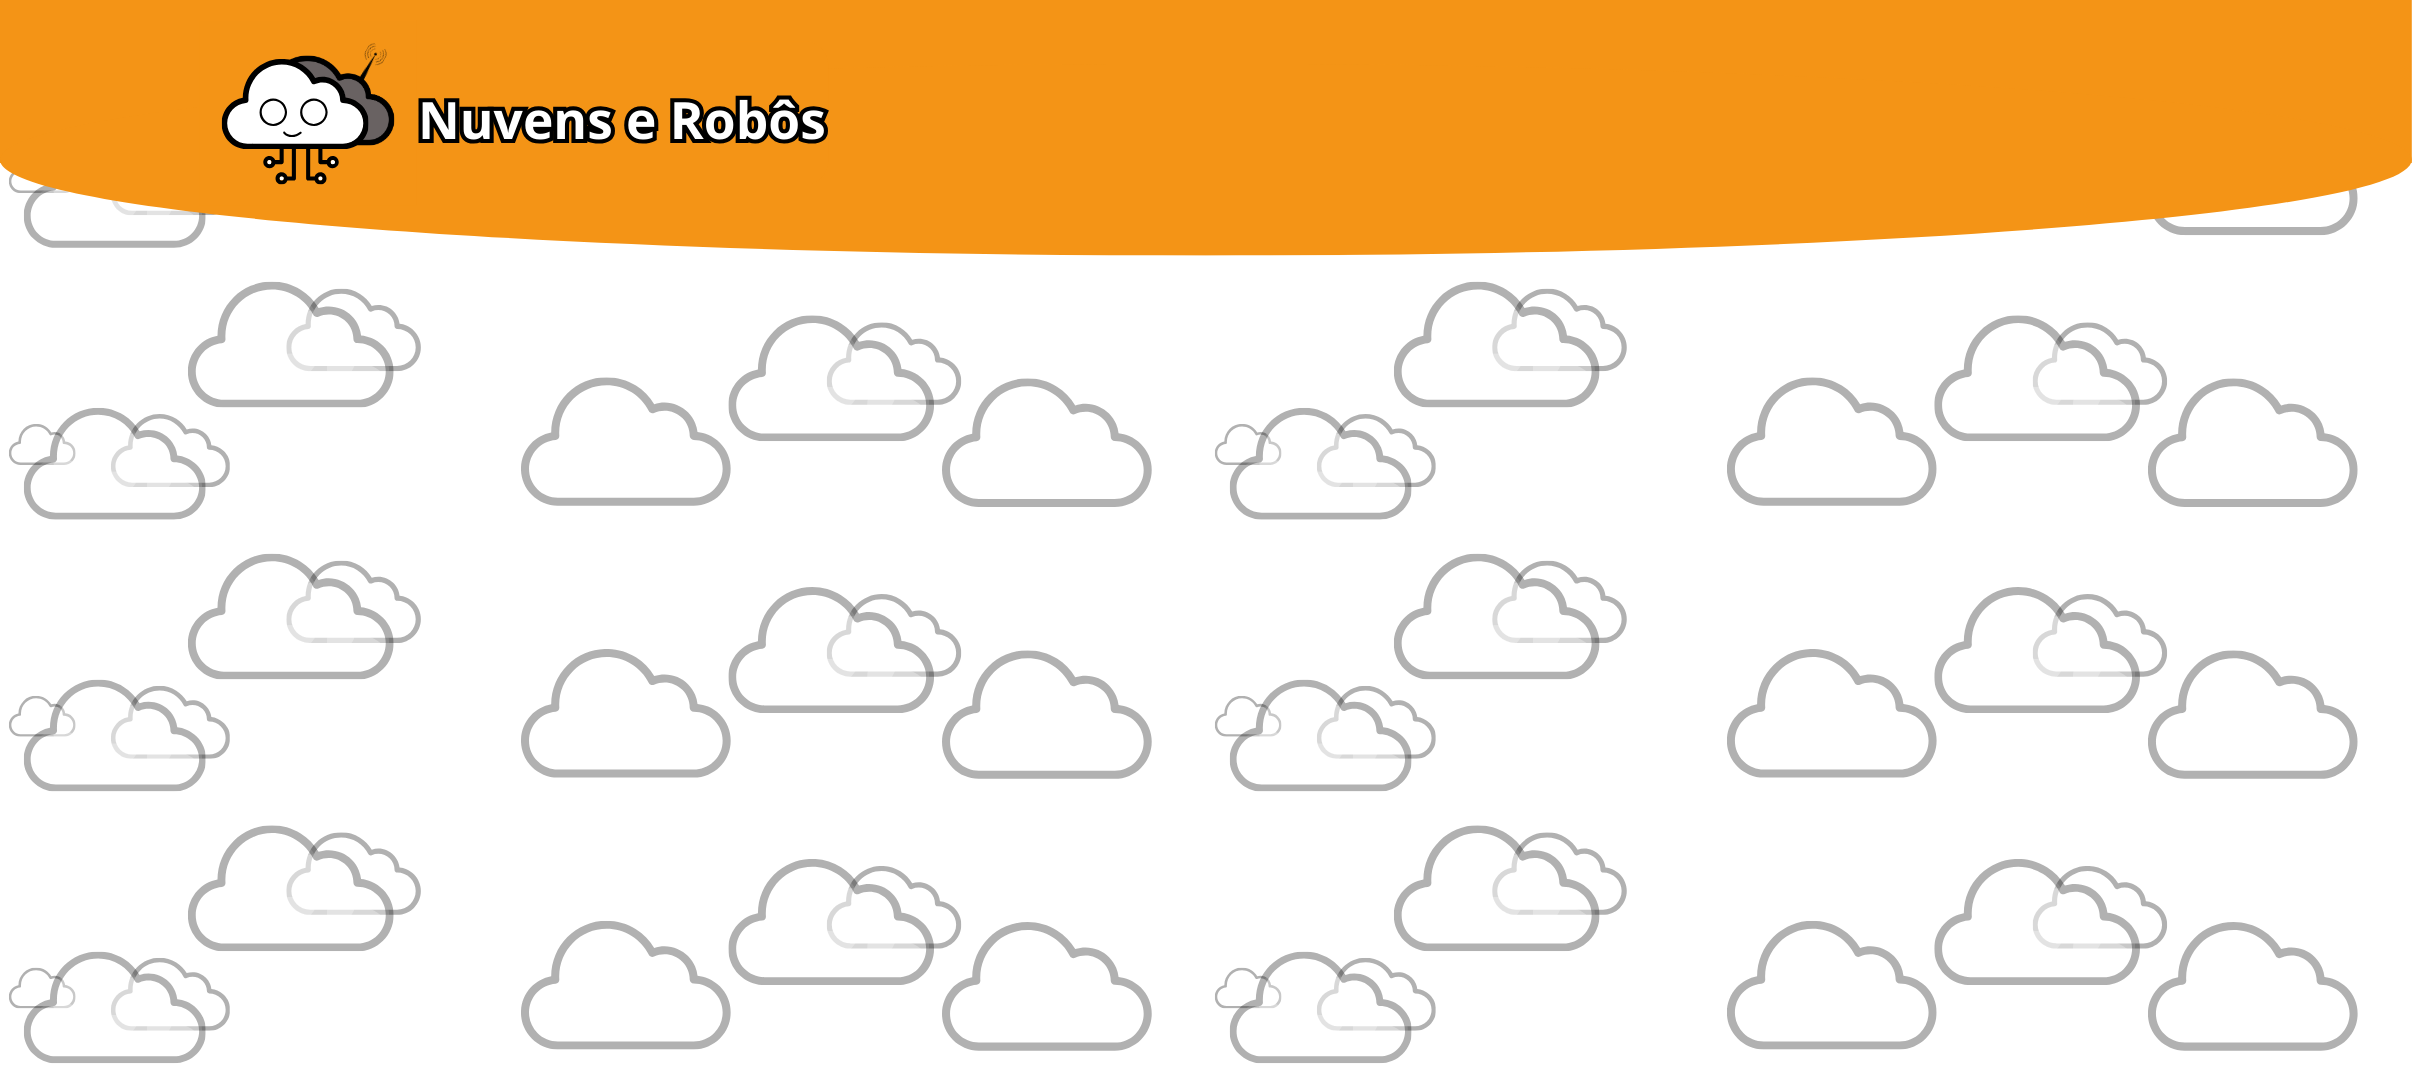
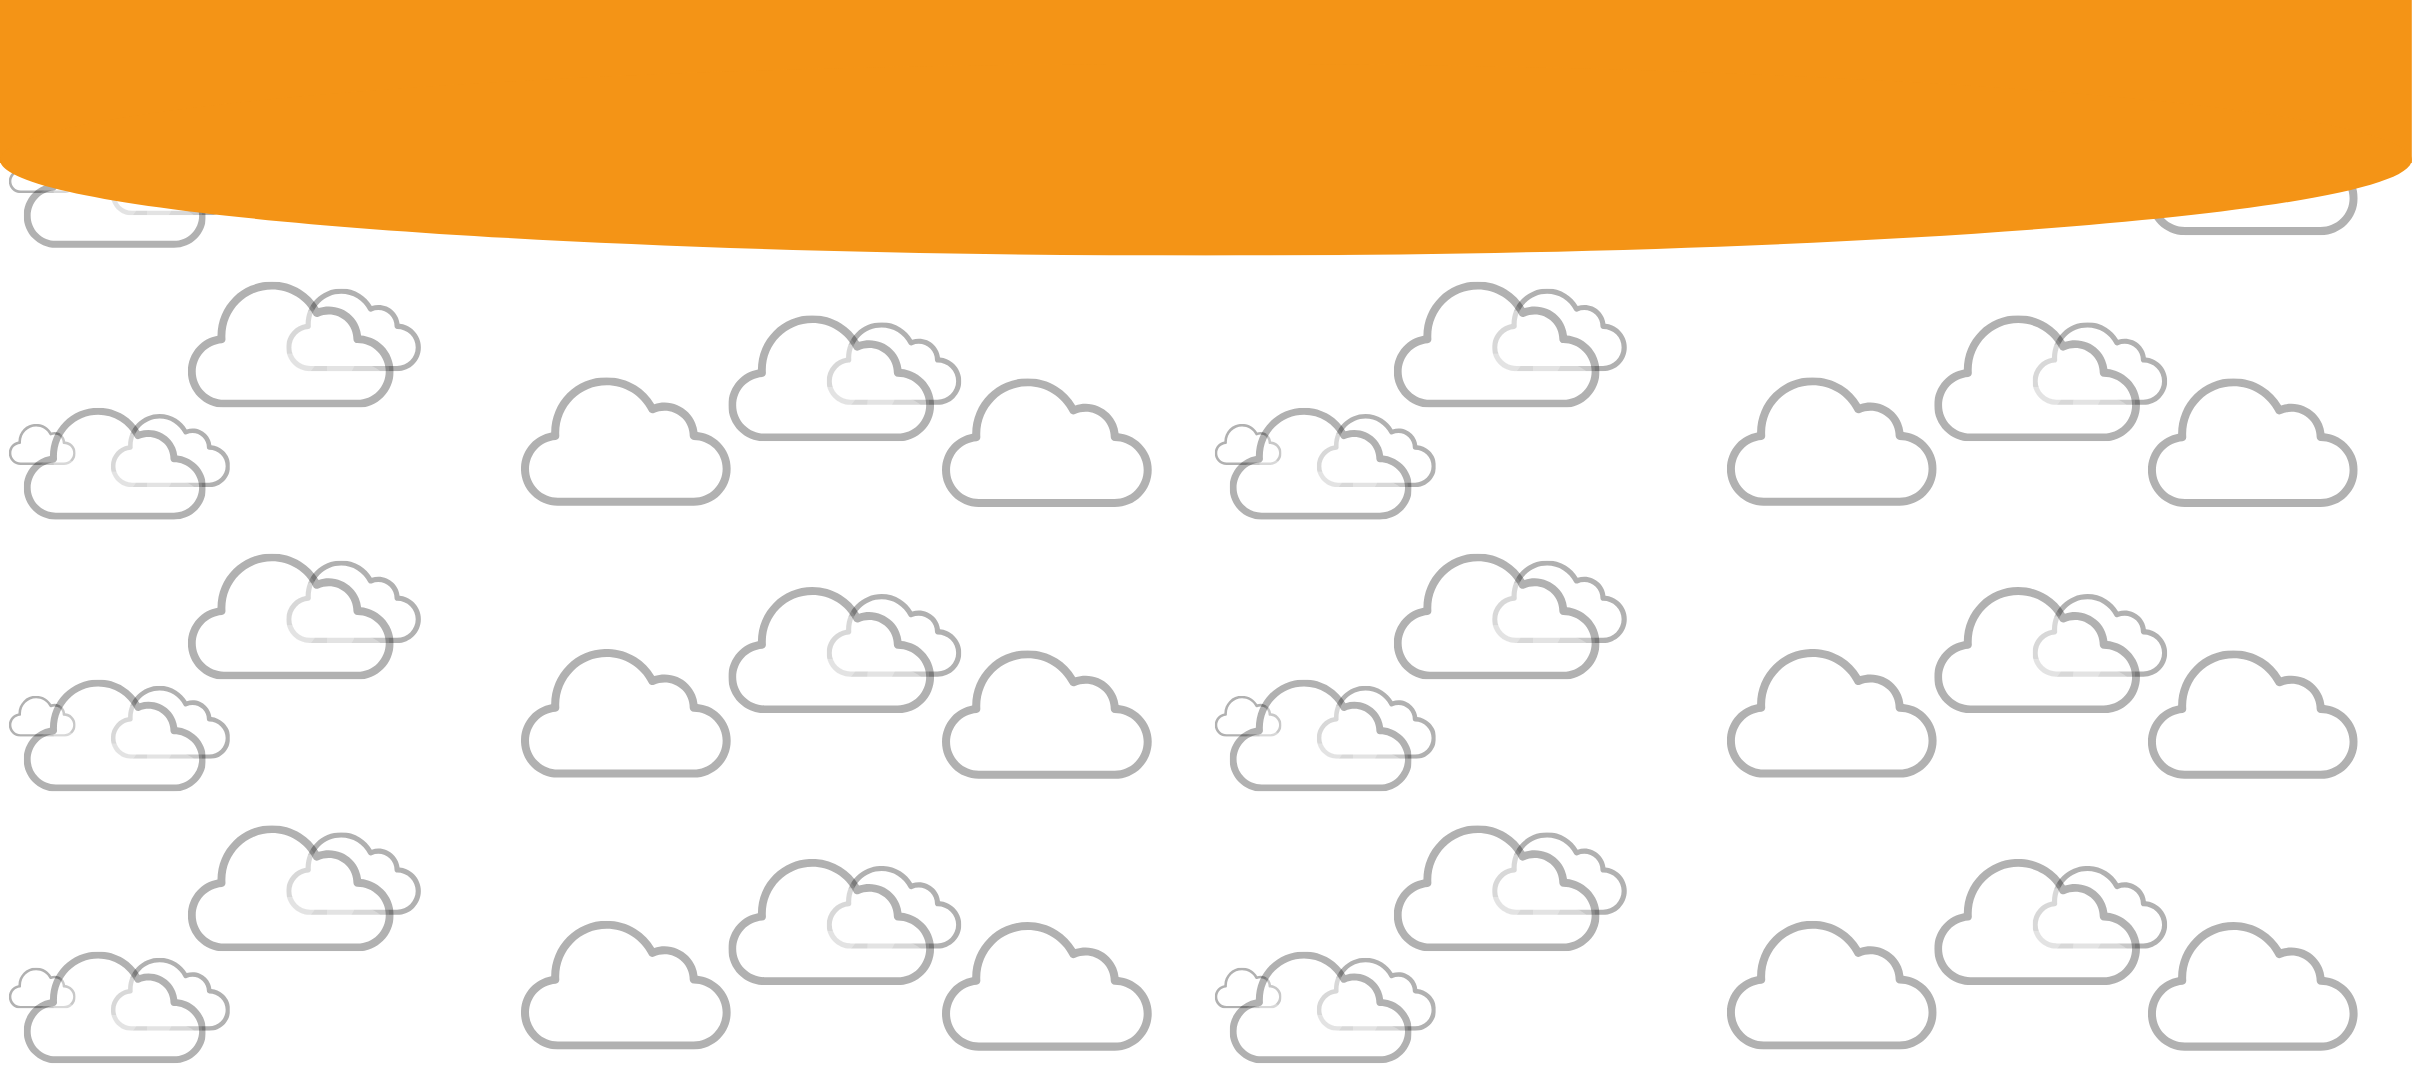
feat: add mobile version

Changed region(s): [[0.0933, 0.0312, 0.342, 0.1562]]

diff --git a/static/css/style.css b/static/css/style.css
@@ -18,12 +18,15 @@ body {
 /* Header */
 header {
     padding: 20px 20px;
+    position: relative; /* Adicionado para posicionar a logo */
+    width: 100%; /* Ocupa toda a largura da tela */
 }
 
 .navbar {
     background-color: transparent !important;
     border-radius: 15px;
     padding: 20px 25px;
+    width: 100%; /* Ocupa toda a largura da tela */
 }
 
 .navbar-nav .nav-link {
@@ -33,6 +36,29 @@ header {
 .nav-img {
     height: 60px;
     transition: transform 0.1s ease;
+}
+
+/* Logo e Título na lateral esquerda do header */
+.header-logo {
+    height: 85px; /* Aumentei mais um pouco (de 75px para 85px) */
+    margin-right: 10px; /* Espaço entre a logo e o título */
+}
+
+.header-titulo {
+    height: 50px; /* Ajuste conforme necessário */
+}
+
+/* Ajuste para subir a logo e o título */
+.d-flex.align-items-center {
+    position: absolute;
+    top: 5px; /* Diminui o valor para subir um pouco mais */
+    left: 20px;
+}
+
+/* Botão do menu hamburguer na lateral direita */
+.navbar-toggler {
+    margin-left: auto; /* Move o botão para a direita */
+    margin-right: 40px; /* Aumentei o espaçamento à direita */
 }
 
 /* Conteúdo Principal */
@@ -197,4 +223,79 @@ footer {
 /* Estilo específico para o botão chatbot2 */
 .chatbot2-btn {
     height: 80px;
+}
+
+/* Ajustes para dispositivos móveis */
+@media (max-width: 768px) {
+    body {
+        font-size: 14px;
+    }
+
+    h1 {
+        font-size: 1.8rem;
+    }
+
+    h2 {
+        font-size: 1.5rem;
+    }
+
+    header {
+        padding: 10px;
+    }
+
+    .header-logo {
+        height: 60px;
+    }
+
+    .header-titulo {
+        height: 30px; /* Reduzi o tamanho da imagem do título */
+    }
+
+    .nav-img {
+        height: 40px; /* Tamanho original dos ícones */
+    }
+
+    .navbar-nav .nav-link {
+        padding: 10px 0;
+    }
+
+    .welcome-box, .chatbot-explicacao, .conheca-chatbot {
+        margin: 10px 0;
+        padding: 15px;
+    }
+
+    .centro-img, .sobre-img, .manutencao-img, .email-img {
+        max-width: 80%;
+    }
+
+    .chatbot2-btn {
+        height: 60px;
+    }
+
+    footer {
+        padding: 10px 0;
+    }
+
+    /* Ajuste para exibir os botões horizontalmente no menu hamburguer */
+    .navbar-collapse {
+        flex-direction: row; /* Exibe os itens em linha */
+        justify-content: center; /* Centraliza os itens */
+        margin-top: 20px; /* Move os botões mais para baixo */
+        text-align: center; /* Centraliza o texto */
+    }
+
+    .navbar-nav {
+        flex-direction: row; /* Exibe os itens em linha */
+        justify-content: center; /* Centraliza os itens */
+        width: 100%; /* Ocupa toda a largura disponível */
+    }
+
+    .nav-item {
+        margin: 0 10px; /* Adiciona espaçamento entre os itens */
+    }
+
+    /* Ajuste para o botão do menu hamburguer */
+    .navbar-toggler {
+        margin-right: 5px; /* Move o botão mais para a direita */
+    }
 }

diff --git a/index.html b/index.html
@@ -15,10 +15,17 @@
     <!-- Header -->
     <header>
         <nav class="navbar navbar-expand-lg navbar-light rounded">
-            <div class="container">
-                <button class="navbar-toggler" type="button" data-bs-toggle="collapse" data-bs-target="#navbarNav">
+            <div class="container-fluid"> <!-- Alterado para container-fluid -->
+                <!-- Logo e Título na lateral esquerda -->
+                <div class="d-flex align-items-center">
+                    <img src="static/img/ico.png" alt="Logo" class="header-logo">
+                    <img src="static/img/titulo.png" alt="Título" class="header-titulo">
+                </div>
+                <!-- Botão do menu hamburguer na lateral direita -->
+                <button class="navbar-toggler ms-auto" type="button" data-bs-toggle="collapse" data-bs-target="#navbarNav" aria-controls="navbarNav" aria-expanded="false" aria-label="Toggle navigation">
                     <span class="navbar-toggler-icon"></span>
                 </button>
+                <!-- Itens do menu -->
                 <div class="collapse navbar-collapse" id="navbarNav">
                     <ul class="navbar-nav ms-auto">
                         <li class="nav-item">
@@ -154,6 +161,12 @@
 
                 // Alterna para a seção clicada
                 alternarSecao(targetId);
+
+                // Fecha o menu hamburguer após clicar em um link (apenas em mobile)
+                const navbarCollapse = document.querySelector('.navbar-collapse');
+                if (navbarCollapse.classList.contains('show')) {
+                    navbarCollapse.classList.remove('show');
+                }
             });
         });
 
